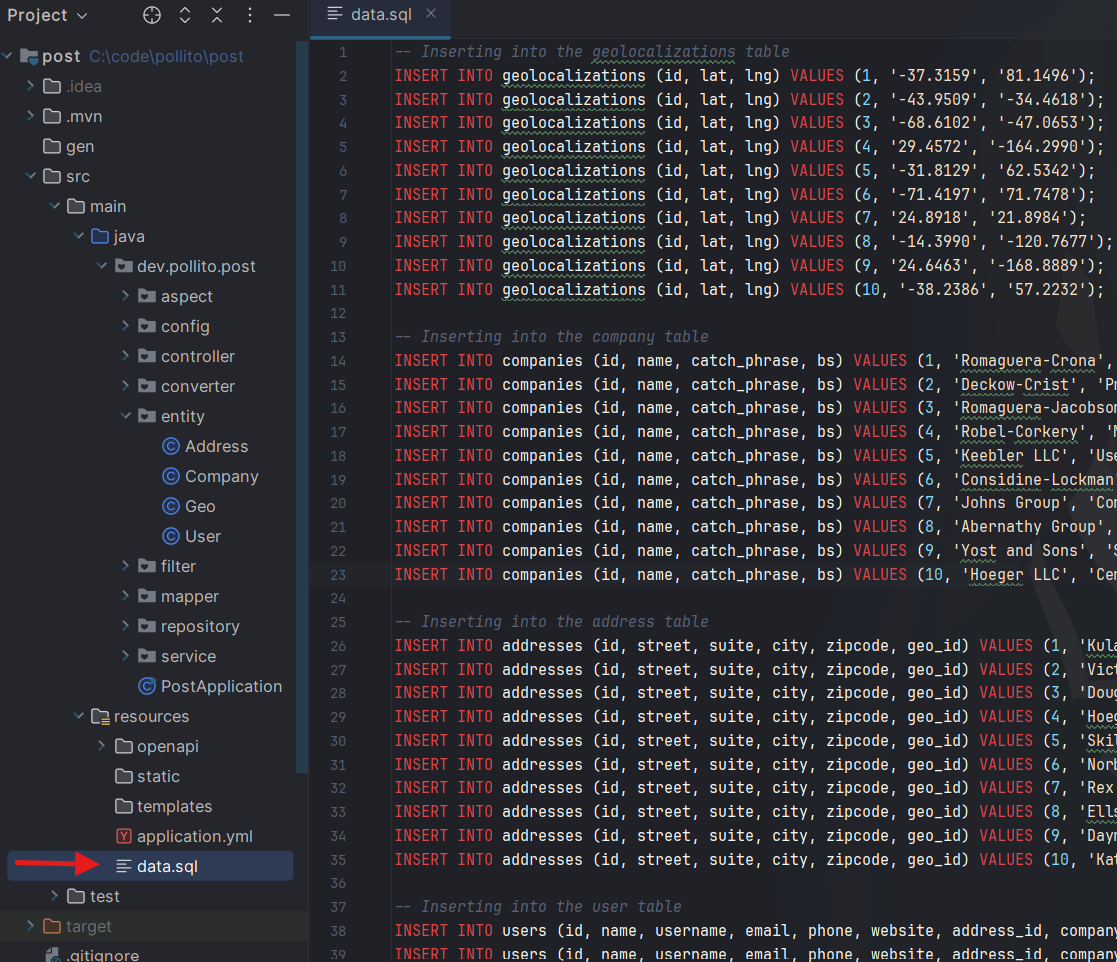
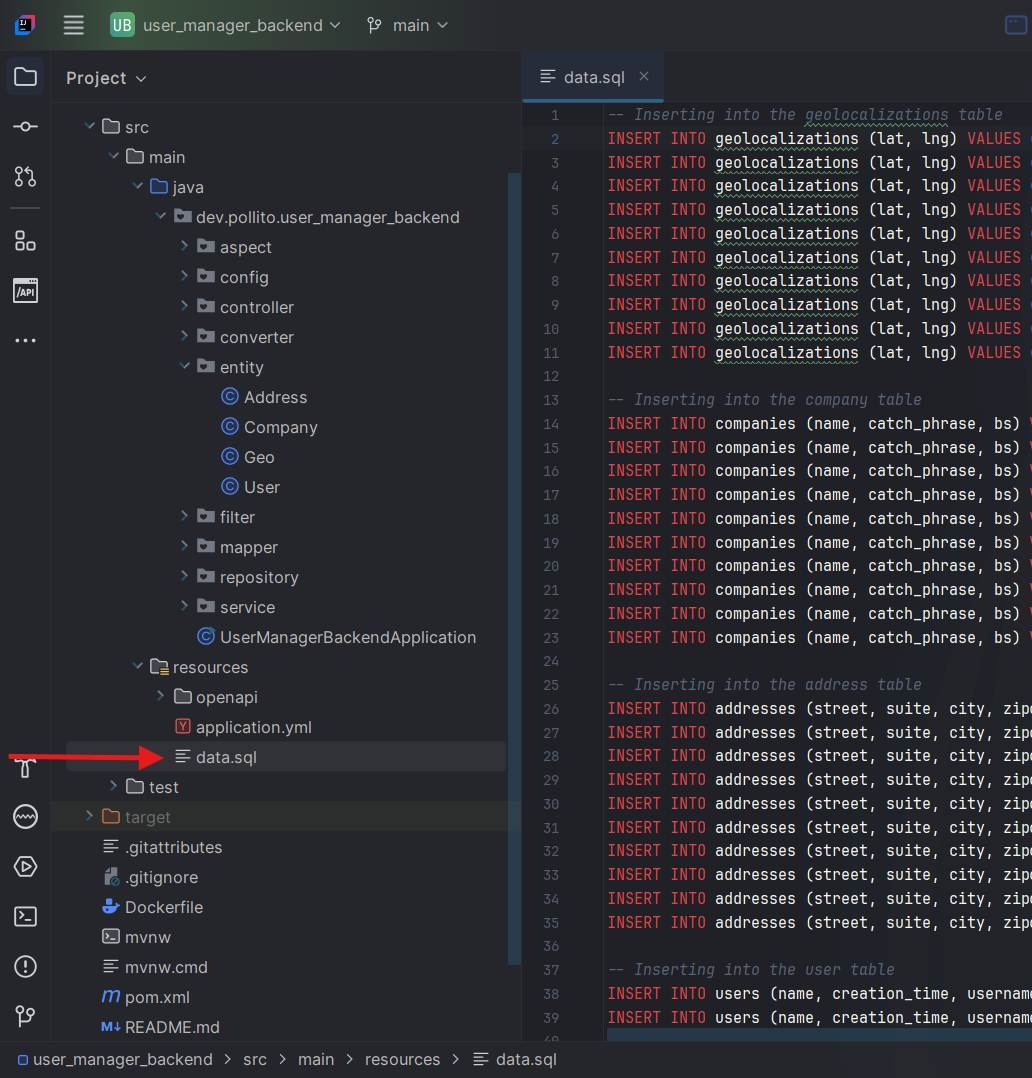
devsu lab WIP

diff --git a/content/en/blog/2024-10-30-pollitos-opinion-on-spring-boot-development-7-5.md b/content/en/blog/2024-10-30-pollitos-opinion-on-spring-boot-development-7-5.md
@@ -26,7 +26,7 @@ Let’s get started!
 
 idk yet
 
-## Oh no! I was not there when Contract Driven Development 101 happened
+## Oh, no! I was not there when Contract Driven Development 101 happened
 
 This is "Contract Driven Development 102". If you missed our first lab, is basically [Pollito&rsquo;s Opinion on Spring Boot Development 1: Contract-Driven Development](/en/blog/2024-10-02-pollitos-opinion-on-spring-boot-development-1).
 
@@ -40,7 +40,7 @@ But in a nutshell...
 
 To put the concepts into practice, we'll dive into a project where Contract Driven Development principles are already implemented.
 
-You can find the project in [the following GitHub repository](https://github.com/franBec/post/tree/feature/devsu-lab), branch feature/devsu-lab
+You can find the project in [the following GitHub repository](https://github.com/franBec/user_manager_backend).
 
 The project is a simple Spring Boot microservice with...
 - In-memory dummy MsSQL database.
@@ -52,26 +52,26 @@ The project is a simple Spring Boot microservice with...
 
 ![Untitled-2024-10-30-2236](/uploads/2024-10-30-pollitos-opinion-on-spring-boot-development-7-5/Untitled-2024-10-30-2236.png)
 
-### In-memory dummy MsSQL database
+## In-memory dummy MsSQL database
 Doing an actual SQL Server setup is too much for a simple example. [H2](https://www.h2database.com/html/main.html) comes to the rescue! It is a lightweight, in-memory database engine (When you stop the app, the data is gone).
 
 Here’s how it works:
 
-1. Create some [Entities classes](https://github.com/franBec/post/tree/feature/devsu-lab/src/main/java/dev/pollito/post/entity): These are your representation of the database tables in your business code.
+1. Create some [Entities classes](https://github.com/franBec/user_manager_backend/tree/main/src/main/java/dev/pollito/user_manager_backend/entity): These are your representation of the database tables in your business code.
 ![Screenshot2024-10-31200319](/uploads/2024-10-30-pollitos-opinion-on-spring-boot-development-7-5/Screenshot2024-10-31200319.png)
-2. In a [data.sql](https://github.com/franBec/post/blob/feature/devsu-lab/src/main/resources/data.sql) file, write the INSERT INTO queries that will fill the tables with mock data.
+2. In a [data.sql](https://github.com/franBec/user_manager_backend/blob/main/src/main/resources/data.sql) file, write the INSERT INTO queries that will fill the tables with mock data.
 ![Screenshot2024-10-31211225](/uploads/2024-10-30-pollitos-opinion-on-spring-boot-development-7-5/Screenshot2024-10-31211225.png)
 3. Add properties in [application.yml](https://github.com/franBec/post/blob/feature/devsu-lab/src/main/resources/application.yml).
 ![Screenshot2024-10-31211757](/uploads/2024-10-30-pollitos-opinion-on-spring-boot-development-7-5/Screenshot2024-10-31211757.png)
-4. Dependencies in [pom.xml](https://github.com/franBec/post/blob/feature/devsu-lab/pom.xml).
+4. Dependencies in [pom.xml](https://github.com/franBec/user_manager_backend/blob/main/pom.xml).
    - [Microsoft JDBC Driver For SQL Server](https://mvnrepository.com/artifact/com.microsoft.sqlserver/mssql-jdbc)
    - [H2 Database Engine](https://mvnrepository.com/artifact/com.h2database/h2)
 ![Screenshot2024-10-31214058](/uploads/2024-10-30-pollitos-opinion-on-spring-boot-development-7-5/Screenshot2024-10-31214058.png)
 
      
-### Endpoints
-1. Declare the expected endpoints, inputs and outputs in a [OAS yaml file](https://github.com/franBec/post/blob/feature/devsu-lab/src/main/resources/openapi/post.yaml).
-2. In [pom.xml](https://github.com/franBec/post/blob/feature/devsu-lab/pom.xml), add the [openapi-generator-maven-plugin](https://github.com/OpenAPITools/openapi-generator/tree/master/modules/openapi-generator-maven-plugin) and its required dependencies:
+## Endpoints
+1. Declare the expected endpoints, inputs and outputs in an [OAS yaml file](https://github.com/franBec/user_manager_backend/blob/main/src/main/resources/openapi/userManagerBackend.yaml).
+2. In [pom.xml](https://github.com/franBec/user_manager_backend/blob/main/pom.xml), add the [openapi-generator-maven-plugin](https://github.com/OpenAPITools/openapi-generator/tree/master/modules/openapi-generator-maven-plugin) and its required dependencies:
    - [Swagger Core Jakarta](https://mvnrepository.com/artifact/io.swagger.core.v3/swagger-core-jakarta)
    - [JsonNullable Jackson Module](https://mvnrepository.com/artifact/org.openapitools/jackson-databind-nullable)
    - [Spring Boot Starter Validation](https://mvnrepository.com/artifact/org.springframework.boot/spring-boot-starter-validation)
@@ -82,11 +82,37 @@ Make sure the \<inputSpec\> tag (line 232 in the screenshot) points to your OAS 
 
 3. Maven clean.
 4. Maven compile.
-5. Create a @RestController class that implements the generated spring server interface.
+5. Create a [@RestController class](https://github.com/franBec/user_manager_backend/blob/main/src/main/java/dev/pollito/user_manager_backend/controller/UsersController.java) that implements the generated spring server interface.
 
-### Best practices boilerplate
-asda
+This one already has business logic, which is "return whatever the service returns, with the proper HTTP status code" or "leave it as default" (it returns 501 NOT IMPLEMENTED).
 
-### Business logic
+- For this exercise, we're going to be doing the `findAll` and `findById` operations.
+
+![Screenshot2024-11-09162725](/uploads/2024-10-30-pollitos-opinion-on-spring-boot-development-7-5/Screenshot2024-11-09162725.png)
+
+## Best practices boilerplate
+There are two things that you as a developer should look forward to:
+- **Observability:** know what, when, and where things are happening in your codebase.
+  - [AOP](https://www.baeldung.com/aspectj), Micrometer.
+- **Normalization of errors:** keep all errors the same, please.
+  - [@RestControllerAdvice](https://www.bezkoder.com/spring-boot-restcontrolleradvice/) and [ProblemDetail](https://dev.to/noelopez/spring-rest-exception-handling-problem-details-2hkj).
+
+### Observability
+
+Considering we don't mind accidentally printing sensitive information (keys, passwords, etc.), I've found useful to log:
+
+- Everything that comes in
+- Everything that comes out.
+
+To achieve that we are going to be using:
+
+- An [Aspect](https://github.com/franBec/user_manager_backend/blob/main/src/main/java/dev/pollito/user_manager_backend/aspect/LogAspect.java) that logs before and after execution of public controller methods.
+- A [Filter interface](https://www.geeksforgeeks.org/spring-boot-servlet-filter/) that logs stuff that doesn't reach the controllers.
+  - Needs to be configured
+
+
+### Normalization of errors
+asd
+## Business logic
 
 asd

diff --git a/content/en/blog/2024-10-02-pollitos-opinion-on-spring-boot-development-2.md b/content/en/blog/2024-10-02-pollitos-opinion-on-spring-boot-development-2.md
@@ -216,7 +216,7 @@ Considering we don't mind accidentally printing sensitive information (keys, pas
 - Everything that comes in
 - Everything that comes out.
 
-To achieve that we are gonna be using:
+To achieve that we are going to be using:
 
 - An [Aspect](https://www.baeldung.com/aspectj) that logs before and after execution of public controller methods.
 - A [Filter interface](https://www.geeksforgeeks.org/spring-boot-servlet-filter/) that logs stuff that doesn't reach the controllers.
